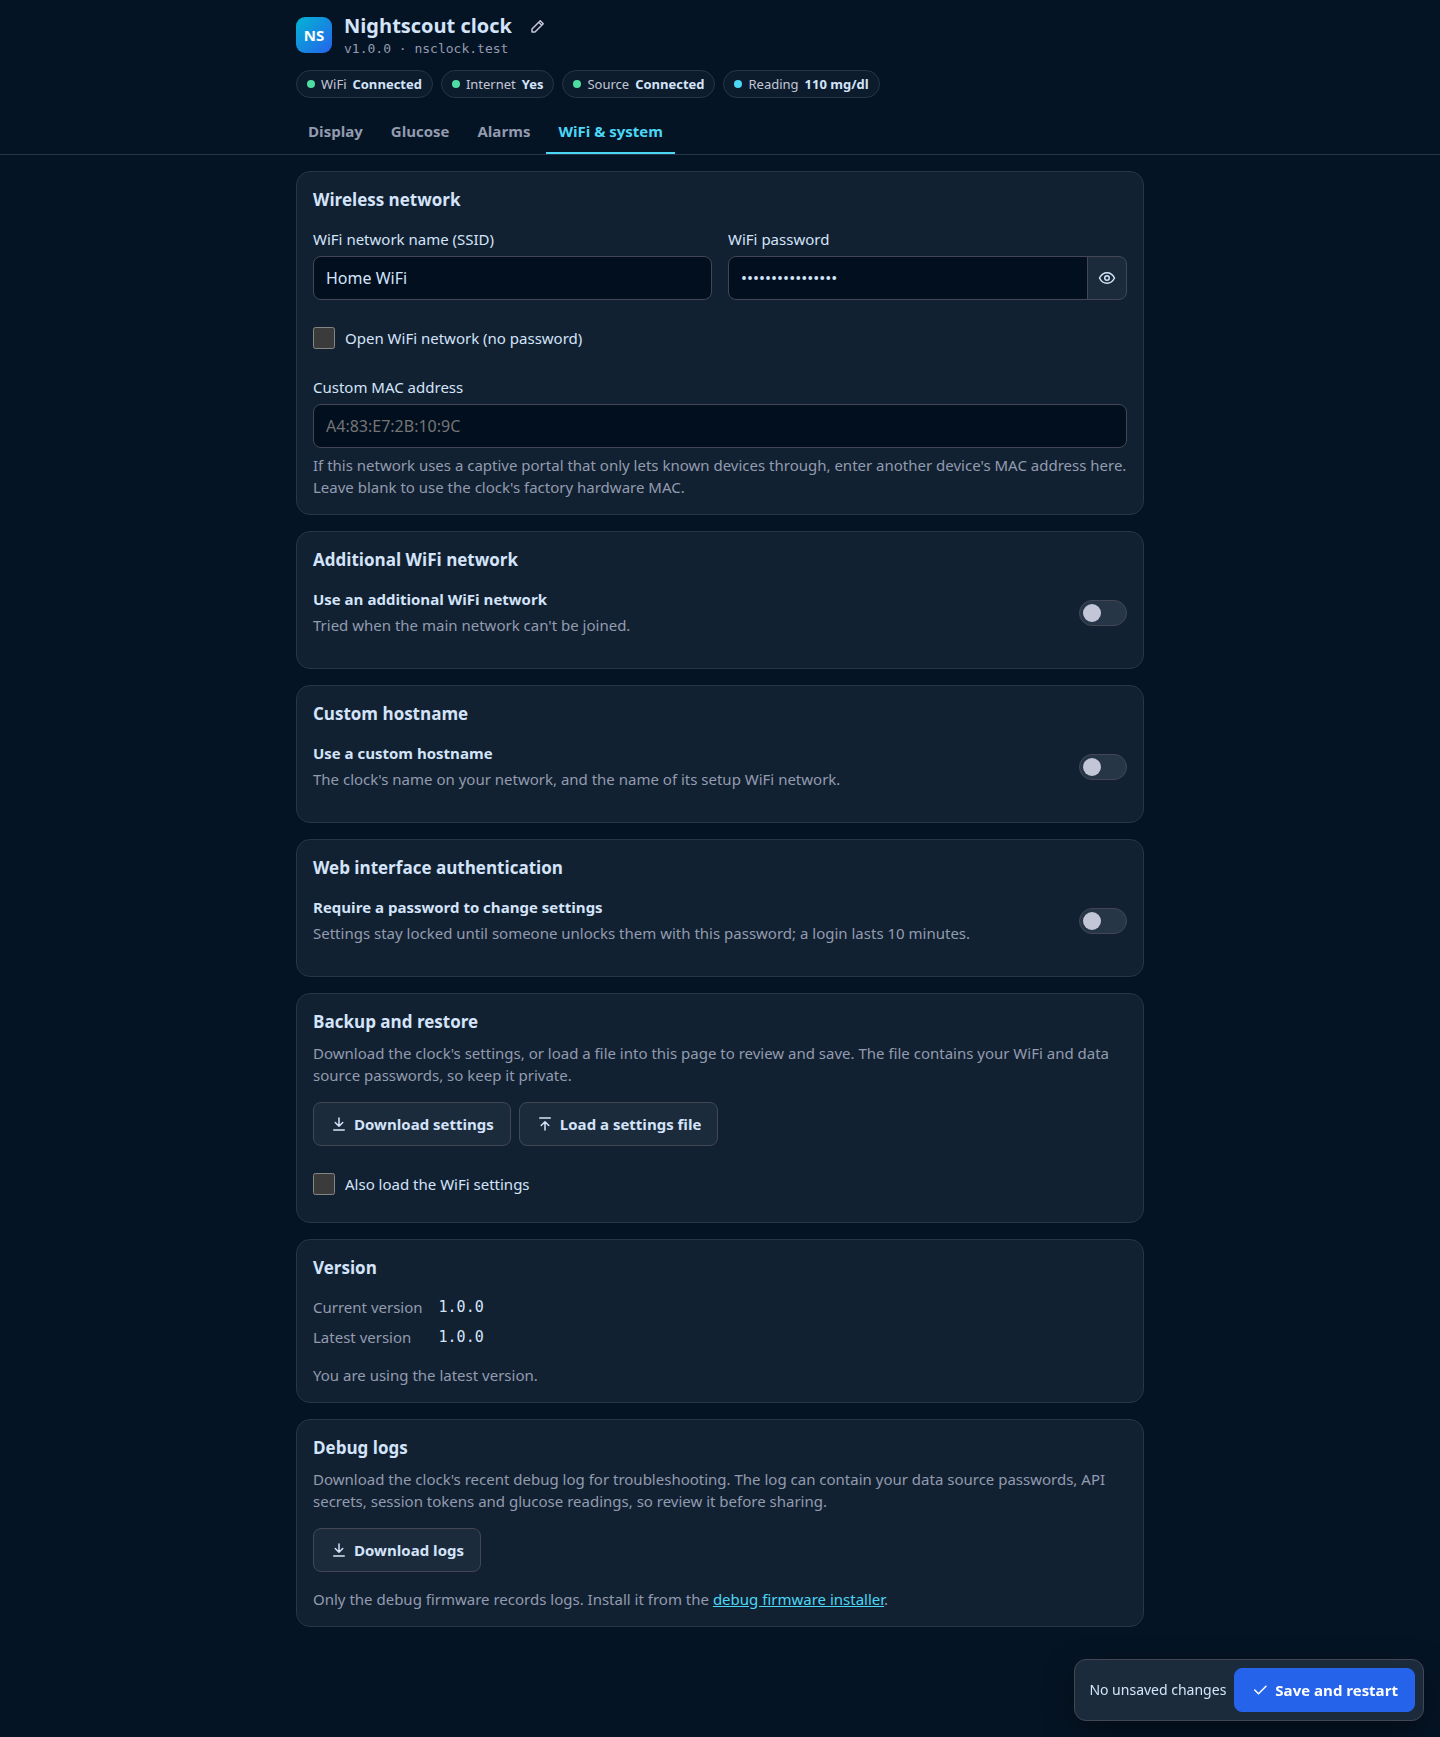
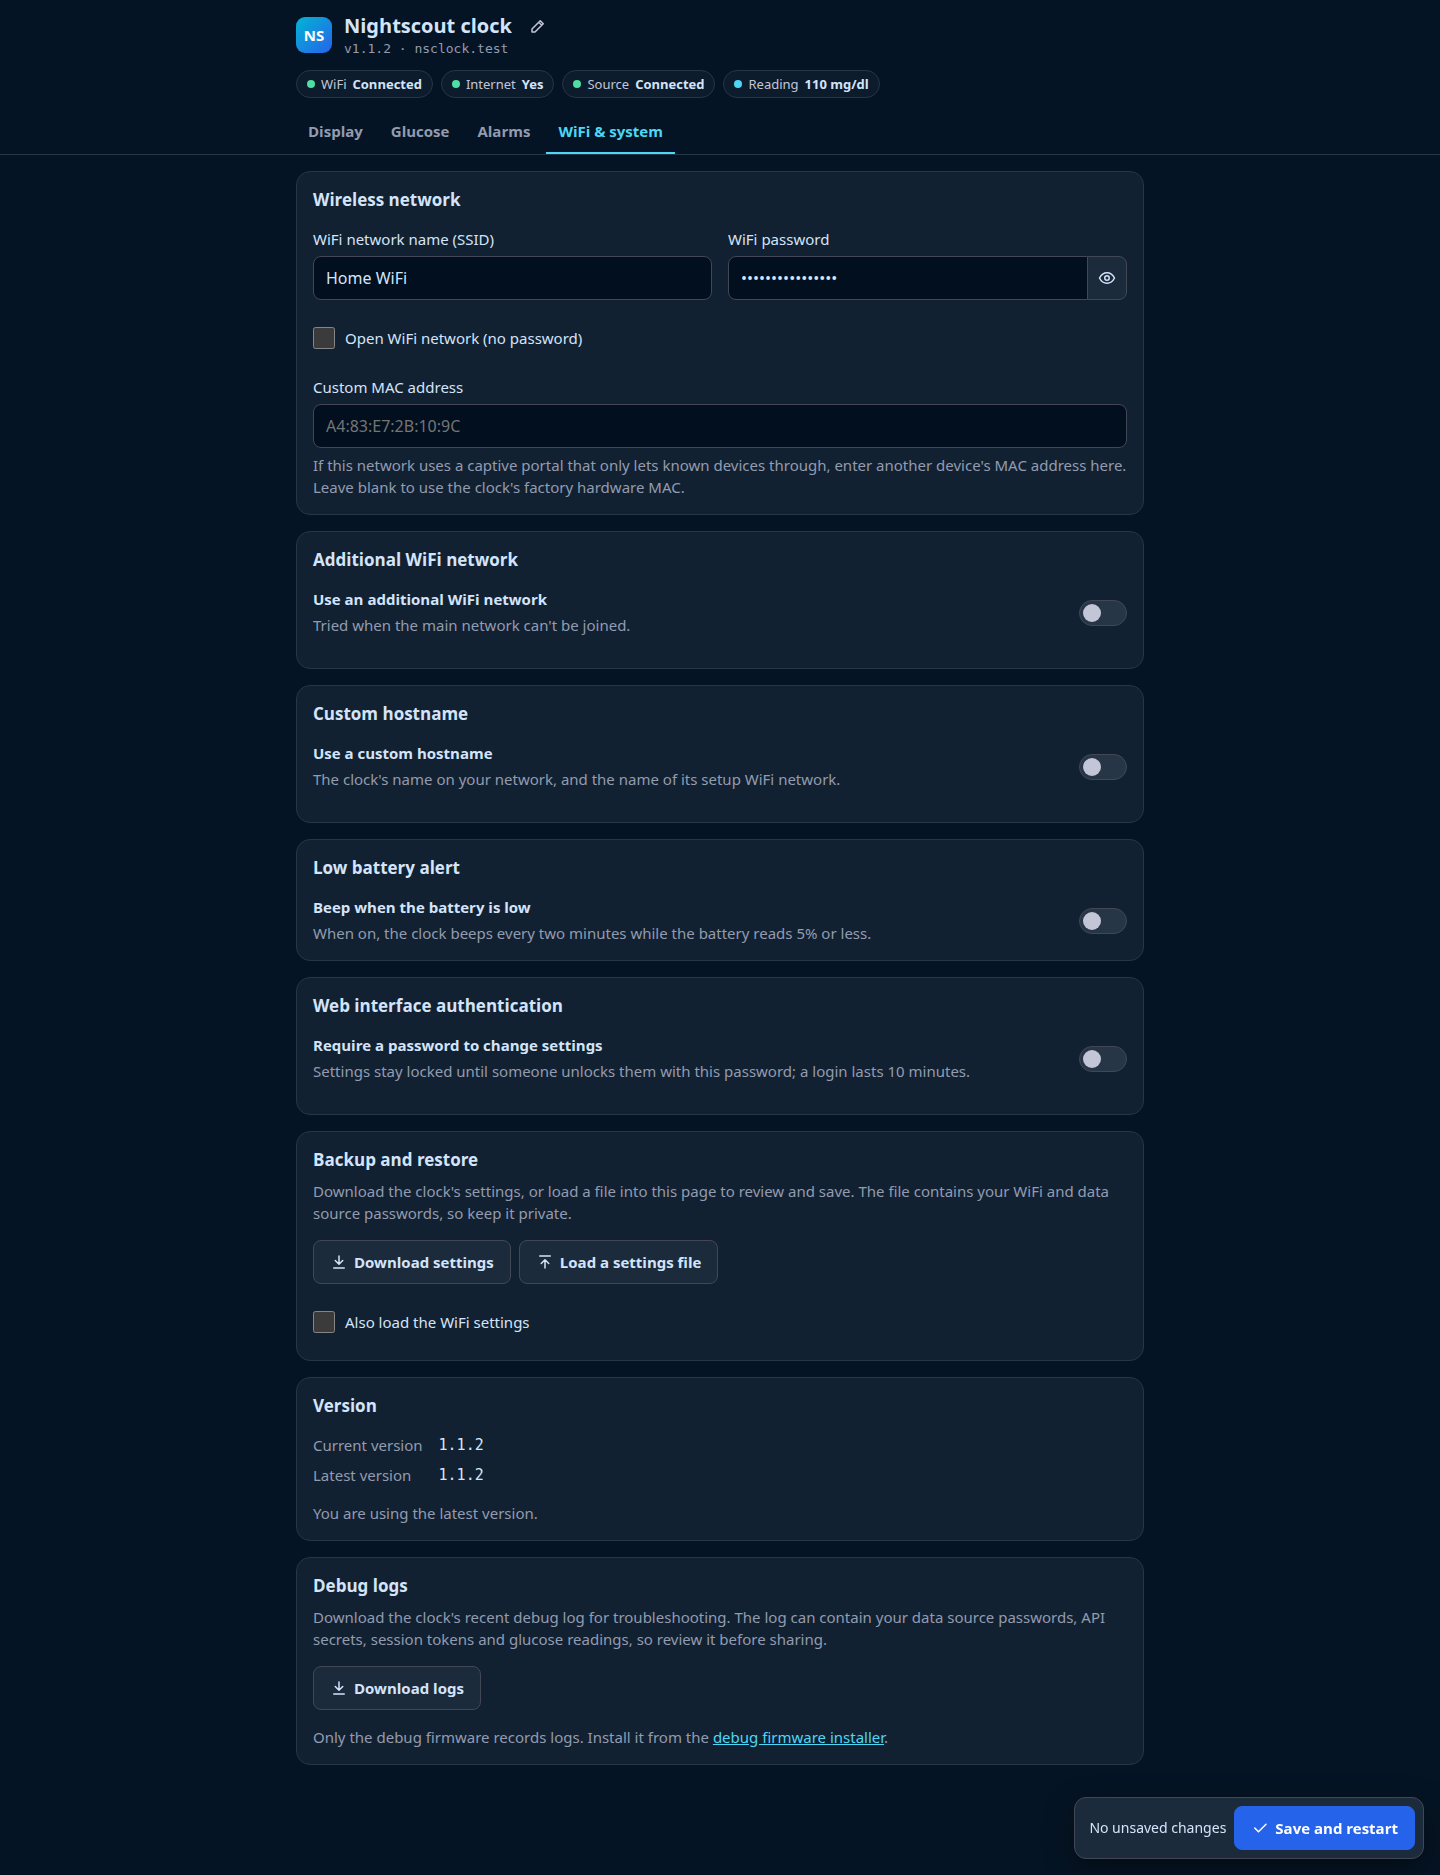
Add an opt-in low battery alert (#267)
A clock running out of battery switches off without warning. A new switch
on the WiFi & system tab, off by default, makes the clock beep every two
minutes while the battery reads 5% or less. It stays off by default
because a worn-out or removed battery also reads 0%.

A reading fluttering around the limit does not restart the interval; that
takes a recovery to 10%. The beep waits for a melody that is already
playing, so it never cuts off a glucose alarm. The decision lives in the
Arduino-free src/LowBatteryAlert.h so that it can be tested on the host.

diff --git a/web/src/js/cards.js b/web/src/js/cards.js
@@ -935,7 +935,7 @@ function alertWindows(a) {
  * @returns {HTMLElement}
  */
 function systemTab() {
-    return el("div.stack", wifiCard(), extraWifiCard(), hostnameCard(), loginCard(), backupCard(), versionCard(), logsCard())
+    return el("div.stack", wifiCard(), extraWifiCard(), hostnameCard(), lowBatteryCard(), loginCard(), backupCard(), versionCard(), logsCard())
 }
 
 /**
@@ -1002,6 +1002,14 @@ function hostnameCard() {
         reactive(["custom_hostname_enable"], () => form.get("custom_hostname_enable")
             ? el("div.grid", field("custom_hostname", "Custom hostname", textInput("custom_hostname")))
             : el("span", { hidden: true }))), { id: "card_hostname" })
+}
+
+/**
+ * Build the switch for the optional low-battery beep.
+ * @returns {HTMLElement}
+ */
+function lowBatteryCard() {
+    return card("Low battery alert", null, toggleRow("low_battery_alert_enable", "Beep when the battery is low", "When on, the clock beeps every two minutes while the battery reads 5% or less."), { id: "card_low_battery" })
 }
 
 /**

diff --git a/web/src/js/schema.js b/web/src/js/schema.js
@@ -503,7 +503,7 @@ function normalizeLoaded(c) {
  * @returns {SettingsTab}
  */
 function tabOfKey(key) {
-    if (/^(ssid|password|additional_|custom_hostname|custom_mac|web_auth)/.test(key)) return "system"
+    if (/^(ssid|password|additional_|custom_hostname|custom_mac|web_auth|low_battery_)/.test(key)) return "system"
     if (/^alarm_/.test(key)) return "alarms"
     if (/^(data_source|ns_|api_secret|nightscout|dexcom|librelinkup|medtrum|units|low_|high_|bg_color)/.test(key)) return "glucose"
     return "display"

diff --git a/test/test_low_battery_alert.cpp b/test/test_low_battery_alert.cpp
@@ -1,0 +1,69 @@
+// Tests the firmware's decision about when to play the low-battery beep.
+
+#include <cassert>
+#include <cstdio>
+
+#include "LowBatteryAlert.h"
+
+static const unsigned long INTERVAL = LowBatteryAlert::REPEAT_INTERVAL_MS;
+static const unsigned long START = 1000;
+
+static void beepsOnlyWhenEnabledAndLow() {
+    LowBatteryAlert alert;
+    assert(!alert.shouldBeep(0, false, false, START));
+    assert(!alert.shouldBeep(6, true, false, START));
+    assert(!alert.shouldBeep(50, true, false, START));
+    assert(alert.shouldBeep(5, true, false, START));
+
+    LowBatteryAlert emptyBattery;
+    assert(emptyBattery.shouldBeep(0, true, false, START));
+}
+
+static void repeatsAtTheInterval() {
+    LowBatteryAlert alert;
+    assert(alert.shouldBeep(3, true, false, START));
+    assert(!alert.shouldBeep(3, true, false, START + 10000));
+    assert(!alert.shouldBeep(3, true, false, START + INTERVAL - 1));
+    assert(alert.shouldBeep(3, true, false, START + INTERVAL));
+}
+
+static void flutteringReadingDoesNotRestartTheInterval() {
+    LowBatteryAlert alert;
+    assert(alert.shouldBeep(5, true, false, START));
+    assert(!alert.shouldBeep(6, true, false, START + 10000));
+    assert(!alert.shouldBeep(5, true, false, START + 20000));
+    assert(!alert.shouldBeep(9, true, false, START + 30000));
+    assert(!alert.shouldBeep(5, true, false, START + 40000));
+}
+
+static void recoveryRestartsTheInterval() {
+    LowBatteryAlert alert;
+    assert(alert.shouldBeep(5, true, false, START));
+    assert(!alert.shouldBeep(10, true, false, START + 10000));
+    assert(alert.shouldBeep(5, true, false, START + 20000));
+}
+
+static void waitsForAPlayingMelody() {
+    LowBatteryAlert alert;
+    assert(!alert.shouldBeep(5, true, true, START));
+    assert(alert.shouldBeep(5, true, false, START + 10000));
+}
+
+static void survivesTheMillisRollover() {
+    LowBatteryAlert alert;
+    const unsigned long nearRollover = static_cast<unsigned long>(-1000);
+    assert(alert.shouldBeep(5, true, false, nearRollover));
+    assert(!alert.shouldBeep(5, true, false, nearRollover + 2000));
+    assert(alert.shouldBeep(5, true, false, nearRollover + INTERVAL));
+}
+
+int main() {
+    beepsOnlyWhenEnabledAndLow();
+    repeatsAtTheInterval();
+    flutteringReadingDoesNotRestartTheInterval();
+    recoveryRestartsTheInterval();
+    waitsForAPlayingMelody();
+    survivesTheMillisRollover();
+    std::puts("test_low_battery_alert: all assertions passed");
+    return 0;
+}

diff --git a/src/LowBatteryAlert.h b/src/LowBatteryAlert.h
@@ -1,0 +1,39 @@
+#ifndef LowBatteryAlert_h
+#define LowBatteryAlert_h
+
+// This header stays free of Arduino dependencies so that test/ can compile it on the host.
+
+// Decides when the optional low-battery beep plays.
+class LowBatteryAlert {
+public:
+    static const int LOW_PERCENT = 5;
+    // One percent is only about two ADC counts, so a reading near LOW_PERCENT flutters. The repeat
+    // interval starts over only once the battery has clearly recovered.
+    static const int RECOVERED_PERCENT = 10;
+    static const unsigned long REPEAT_INTERVAL_MS = 2UL * 60UL * 1000UL;
+
+    // Returns true when the beep should play now. A busy player is retried on the next reading, so
+    // the beep never cuts off a glucose alarm.
+    bool shouldBeep(int batteryPercent, bool enabled, bool playerBusy, unsigned long nowMillis) {
+        if (!enabled || batteryPercent >= RECOVERED_PERCENT) {
+            hasBeeped = false;
+            return false;
+        }
+        if (batteryPercent > LOW_PERCENT || playerBusy) {
+            return false;
+        }
+        if (hasBeeped && nowMillis - lastBeepMillis < REPEAT_INTERVAL_MS) {
+            return false;
+        }
+
+        hasBeeped = true;
+        lastBeepMillis = nowMillis;
+        return true;
+    }
+
+private:
+    bool hasBeeped = false;
+    unsigned long lastBeepMillis = 0;
+};
+
+#endif

diff --git a/src/PeripheryManager.cpp b/src/PeripheryManager.cpp
@@ -8,6 +8,7 @@
 
 #include "Adafruit_SHT31.h"
 #include "DisplayManager.h"
+#include "LowBatteryAlert.h"
 #include "SettingsManager.h"
 #include "globals.h"
 
@@ -48,6 +49,8 @@ float sampleSum = 0.0;
 float sampleAverage = 0.0;
 float brightnessPercent = 0.0;
 int lastBrightness = 0;
+LowBatteryAlert lowBatteryAlert;
+const char* LOW_BATTERY_BEEP = "bat:d=32,o=6,b=220:c";
 
 // The getter for the instantiated singleton instance
 PeripheryManager_& PeripheryManager_::getInstance() {
@@ -150,6 +153,12 @@ void PeripheryManager_::tick() {
         uint16_t ADCVALUE = analogRead(BATTERY_PIN);
         BATTERY_PERCENT = max(min((int)map(ADCVALUE, 475, 665, 0, 100), 100), 0);
         BATTERY_RAW = ADCVALUE;
+        if (lowBatteryAlert.shouldBeep(
+                BATTERY_PERCENT, SettingsManager.settings.low_battery_alert_enable, player.isPlaying(),
+                currentMillis_BatTempHum)) {
+            Melody melody = MelodyFactory.loadRtttlString(LOW_BATTERY_BEEP);
+            player.playAsync(melody);
+        }
         if (SENSOR_READING) {
             sht31.readBoth(&CURRENT_TEMP, &CURRENT_HUM);
             CURRENT_TEMP += TEMP_OFFSET;

diff --git a/src/SettingsManager.cpp b/src/SettingsManager.cpp
@@ -249,6 +249,8 @@ bool SettingsManager_::loadSettingsFromFile() {
     settings.custom_hostname_enable = (*doc)["custom_hostname_enable"].as<bool>();
     settings.custom_hostname = (*doc)["custom_hostname"].as<String>();
 
+    settings.low_battery_alert_enable = (*doc)["low_battery_alert_enable"].as<bool>();
+
     // Custom No Data Timer
     settings.custom_nodatatimer_enable = (*doc)["custom_nodatatimer_enable"].as<bool>();
     settings.custom_nodatatimer = (*doc)["custom_nodatatimer"].as<int>();
@@ -456,6 +458,8 @@ bool SettingsManager_::saveSettingsToFile() {
     // Custom hostname
     (*doc)["custom_hostname_enable"] = settings.custom_hostname_enable;
     (*doc)["custom_hostname"] = settings.custom_hostname;
+
+    (*doc)["low_battery_alert_enable"] = settings.low_battery_alert_enable;
 
     // Custom No Data Timer
     (*doc)["custom_nodatatimer_enable"] = settings.custom_nodatatimer_enable;

diff --git a/src/Settings.h b/src/Settings.h
@@ -109,6 +109,7 @@ public:
     String custom_hostname;
     bool custom_nodatatimer_enable;
     int custom_nodatatimer;
+    bool low_battery_alert_enable = false;
     int bg_data_too_old_threshold_minutes = 20;
     DISPLAY_COLOR data_old_color = DISPLAY_COLOR::GRAY;
     BigTextFaceSettings face_big_text;

diff --git a/README.md b/README.md
@@ -130,11 +130,13 @@ Configure high, low, and urgent-low alarms, including sounds, snooze durations, 
 
 #### WiFi & system
 
-Set up WiFi, an optional secondary network, a custom MAC address or hostname, and web login protection. This tab also shows the firmware version and provides settings backup and restore.
+Set up WiFi, an optional secondary network, a custom MAC address or hostname, an optional low battery alert, and web login protection. This tab also shows the firmware version and provides settings backup and restore.
 
 <img alt="WiFi and system tab: network, authentication, backup and firmware settings" src="docs/images/web-ui-system.png" />
 
 The **Backup and restore** card downloads the clock's settings as a file and loads a file into the page for review before saving. WiFi settings are loaded only when requested; the web login is never imported. The file contains WiFi and data source passwords, so keep it private.
+
+The **Low battery alert** switch, off by default, makes the clock beep every two minutes while the battery reads 5% or less.
 
 ### Alarm settings
 
